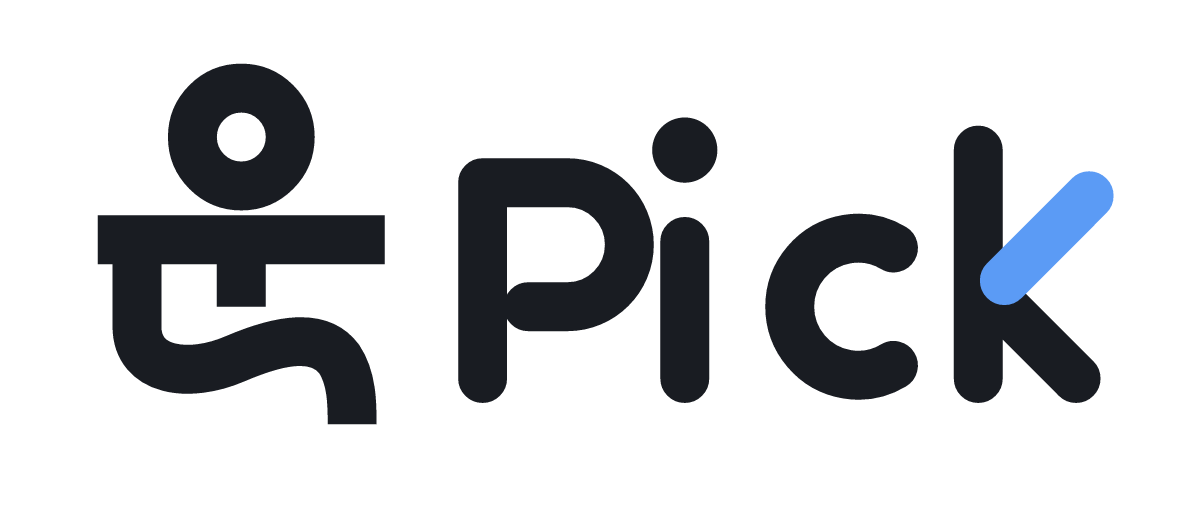
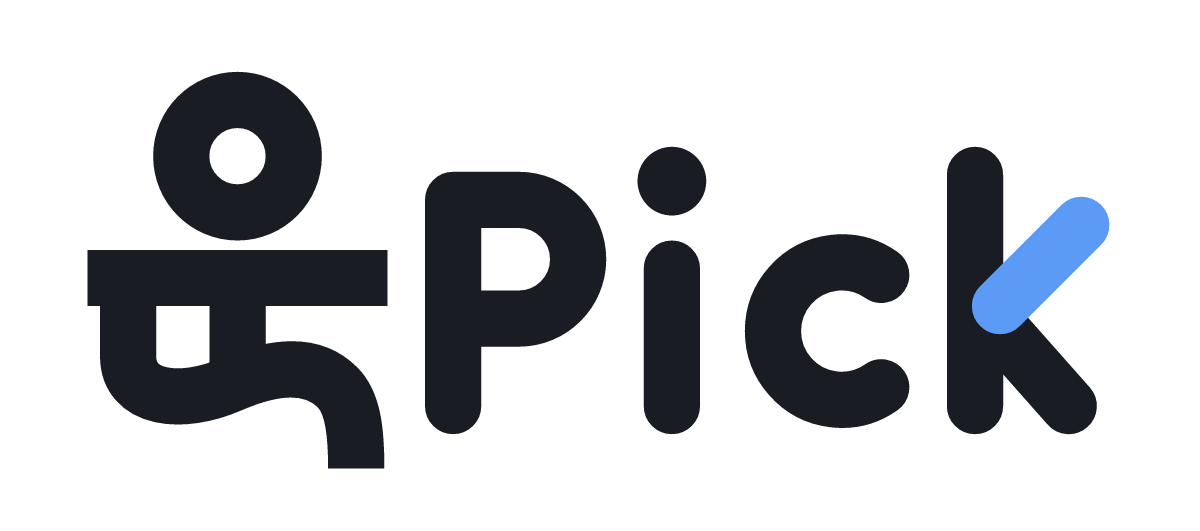
로고 다듬기: 획 18로 굵게 · 글자 간격 12로 통일 · ㅇ 키우고 ㅜ 기둥을 물결 ㄴ과 연결

diff --git a/scripts/render-icons.js b/scripts/render-icons.js
@@ -24,20 +24,18 @@ const mascot = () => `
   ${eye(36, 46, 9)}${eye(58, 42, 9.5)}`;
 
 const BLUE = '#5B9BF5';
-const st = (c, cap = 'round') => `fill="none" stroke="${c}" stroke-width="15" stroke-linecap="${cap}" stroke-linejoin="round"`;
-/** 운Pick 워드마크 — BrandMark.tsx 와 같은 패스 (폭 -4..320, 높이 0..124) */
+const st = (c, cap = 'round') => `fill="none" stroke="${c}" stroke-width="18" stroke-linecap="${cap}" stroke-linejoin="round"`;
+/** 운Pick 워드마크 — BrandMark.tsx 와 같은 패스 (폭 -8..336, 높이 -10..128) */
 const word = (c = INK) => `
-  <circle cx="50" cy="26" r="15" ${st(c)}/>
-  <rect x="6" y="50" width="88" height="15" fill="${c}"/>
-  <rect x="42.5" y="58" width="15" height="20" fill="${c}"/>
-  <path d="M18 58 V84 C18 98 34 100 48 94 C62 88 74 86 80 94 C84 100 84 108 84 114" ${st(c, 'butt')}/>
-  <g transform="translate(116 0)">
-    <path d="M8 100 V40 H34 A19 19 0 0 1 34 78 H22" ${st(c)}/>
-    <path d="M70 58 V100" ${st(c)}/><circle cx="70" cy="30" r="10" fill="${c}"/>
-    <path d="M134 60 A21 21 0 1 0 134 96" ${st(c)}/>
-    <path d="M160 30 V100 M166 76 L190 100" ${st(c)}/>
-    <path d="M168 70 L194 44" ${st(BLUE)}/>
-  </g>`;
+  <circle cx="48" cy="24" r="18" ${st(c)}/>
+  <rect x="0" y="54" width="96" height="18" fill="${c}"/>
+  <rect x="39" y="64" width="18" height="30" fill="${c}"/>
+  <path d="M13 64 V88 C13 102 30 104 46 97 C60 91 72 90 80 98 C85 103 86 112 86 124" ${st(c, 'butt')}/>
+  <path d="M117 104 V38 H138 A19 19 0 0 1 138 76 H126" ${st(c)}/>
+  <path d="M187 60 V104" ${st(c)}/><circle cx="187" cy="32" r="11" fill="${c}"/>
+  <path d="M254 62 A22 22 0 1 0 254 98" ${st(c)}/>
+  <path d="M284 30 V104 M291 78 L314 104" ${st(c)}/>
+  <path d="M292 72 L318 46" ${st(BLUE)}/>`;
 const svg = (body, vb = '0 0 100 100') => `<svg xmlns="http://www.w3.org/2000/svg" viewBox="${vb}">${body}</svg>`;
 const png = (s, out, w) => fs.writeFileSync(out, new Resvg(s, { fitTo: { mode: 'width', value: w }, font: { fontFiles: FONTS, loadSystemFonts: false, defaultFontFamily: 'Pretendard' } }).render().asPng());
 const out = process.argv[2] || path.resolve(__dirname, '../assets');
@@ -46,8 +44,8 @@ const skyBg = `<defs><linearGradient id="sky" x1="0" y1="0" x2="0" y2="1"><stop 
 png(svg(`${skyBg}<g transform="translate(50 52) scale(0.72) translate(-50 -50)">${mascot()}</g>`), `${out}/icon.png`, 1024);
 png(svg(`<g transform="translate(50 52) scale(0.52) translate(-50 -50)">${mascot()}</g>`), `${out}/adaptive-icon.png`, 1024);
 png(svg(`<g transform="translate(200 130) scale(1.1) translate(-50 -50)">${mascot()}</g>
-  <g transform="translate(200 252) scale(0.42) translate(-158 -62)">${word()}</g>
+  <g transform="translate(200 252) scale(0.4) translate(-164 -59)">${word()}</g>
   <text x="200" y="312" font-family="Pretendard" font-weight="700" font-size="16" fill="${MUTE}" text-anchor="middle">오늘, 나에게 딱 맞는 운</text>`, '0 0 400 400'), `${out}/splash-icon.png`, 1200);
 png(svg(`${skyBg.replace('<rect', '<rect rx="22"')}<g transform="translate(50 52) scale(0.78) translate(-50 -50)">${mascot()}</g>`), `${out}/favicon.png`, 196);
-png(svg(`<rect x="-24" y="-16" width="368" height="156" fill="#FFFFFF"/>${word()}`, '-24 -16 368 156'), path.resolve(__dirname, '../docs/wordmark.png'), 1200);
+png(svg(`<rect x="-28" y="-26" width="384" height="170" fill="#FFFFFF"/>${word()}`, '-28 -26 384 170'), path.resolve(__dirname, '../docs/wordmark.png'), 1200);
 console.log('ok');

diff --git a/src/components/BrandMark.tsx b/src/components/BrandMark.tsx
@@ -1,5 +1,5 @@
 import React from 'react';
-import Svg, { Circle, G, Path, Rect } from 'react-native-svg';
+import Svg, { Circle, Path, Rect } from 'react-native-svg';
 import Mascot from './Mascot';
 import { colors } from '../theme/colors';
 
@@ -7,31 +7,31 @@ import { colors } from '../theme/colors';
 export const BRAND = { name: '운Pick', ko: '운픽', slogan: '오늘, 나에게 딱 맞는 운', store: '운Pick - 오늘, 나에게 딱 맞는 운' };
 
 /**
- * 운Pick 로고 — 글꼴이 아니라 직접 그린 굵은 레터링(획 15).
+ * 운Pick 로고 — 글꼴이 아니라 직접 그린 굵은 레터링(획 18 · 글자 간격 12).
  * '운'은 동그란 ㅇ · 각진 ㅡ · 짧은 ㅜ · 물결처럼 흘러내리는 ㄴ(오늘의 흐름),
  * 'Pick'은 둥근 기하 글자에 k의 위쪽 팔만 파란 사선 — 오늘 하나를 '콕' 고르는 손짓.
  * scripts/render-icons.js 와 같은 패스.
  */
 export const LOGO_BLUE = '#5B9BF5';
-const st = (c: string, cap: 'round' | 'butt' = 'round') => ({ fill: 'none', stroke: c, strokeWidth: 15, strokeLinecap: cap, strokeLinejoin: 'round' } as const);
+const W = 18;
+const st = (c: string, cap: 'round' | 'butt' = 'round') => ({ fill: 'none', stroke: c, strokeWidth: W, strokeLinecap: cap, strokeLinejoin: 'round' } as const);
 
+/** 글자 사이 간격은 모두 12, 획은 18 — 'Pick' 높이(21~113)에 맞춘 비율 */
 function Wordmark({ fg }: { fg: string }) {
   return (
     <>
       {/* 운 */}
-      <Circle cx={50} cy={26} r={15} {...st(fg)} />
-      <Rect x={6} y={50} width={88} height={15} fill={fg} />
-      <Rect x={42.5} y={58} width={15} height={20} fill={fg} />
-      <Path d="M18 58 V84 C18 98 34 100 48 94 C62 88 74 86 80 94 C84 100 84 108 84 114" {...st(fg, 'butt')} />
+      <Circle cx={48} cy={24} r={18} {...st(fg)} />
+      <Rect x={0} y={54} width={96} height={18} fill={fg} />
+      <Rect x={39} y={64} width={18} height={30} fill={fg} />
+      <Path d="M13 64 V88 C13 102 30 104 46 97 C60 91 72 90 80 98 C85 103 86 112 86 124" {...st(fg, 'butt')} />
       {/* Pick */}
-      <G x={116}>
-        <Path d="M8 100 V40 H34 A19 19 0 0 1 34 78 H22" {...st(fg)} />
-        <Path d="M70 58 V100" {...st(fg)} />
-        <Circle cx={70} cy={30} r={10} fill={fg} />
-        <Path d="M134 60 A21 21 0 1 0 134 96" {...st(fg)} />
-        <Path d="M160 30 V100 M166 76 L190 100" {...st(fg)} />
-        <Path d="M168 70 L194 44" {...st(LOGO_BLUE)} />
-      </G>
+      <Path d="M117 104 V38 H138 A19 19 0 0 1 138 76 H126" {...st(fg)} />
+      <Path d="M187 60 V104" {...st(fg)} />
+      <Circle cx={187} cy={32} r={11} fill={fg} />
+      <Path d="M254 62 A22 22 0 1 0 254 98" {...st(fg)} />
+      <Path d="M284 30 V104 M291 78 L314 104" {...st(fg)} />
+      <Path d="M292 72 L318 46" {...st(LOGO_BLUE)} />
     </>
   );
 }
@@ -45,7 +45,7 @@ export function LogoMark({ size = 24 }: { size?: number; fg?: string }) {
 export default function BrandMark({ light = false, size = 22, fg: fgIn }: { light?: boolean; size?: number; fg?: string }) {
   const fg = fgIn ?? (light ? '#FFFFFF' : colors.ink);
   return (
-    <Svg width={(size * 324) / 124} height={size} viewBox="-4 0 324 124" accessibilityLabel={BRAND.name}>
+    <Svg width={(size * 344) / 138} height={size} viewBox="-8 -10 344 138" accessibilityLabel={BRAND.name}>
       <Wordmark fg={fg} />
     </Svg>
   );

diff --git a/src/screens/auth/LoginScreen.tsx b/src/screens/auth/LoginScreen.tsx
@@ -54,7 +54,7 @@ export default function LoginScreen() {
         ) : null}
         <View style={{ alignItems: 'center' }}>
           <Mascot size={150} face="look" prop="sparkle" />
-          <View style={{ marginTop: 18 }}><BrandMark size={44} /></View>
+          <View style={{ marginTop: 18 }}><BrandMark size={56} /></View>
         </View>
         <Text style={[s.headline, { textAlign: 'center' }]}>{COPY.ask}</Text>
         <Text style={[s.sub, { textAlign: 'center' }]}>{COPY.pickMe}</Text>
